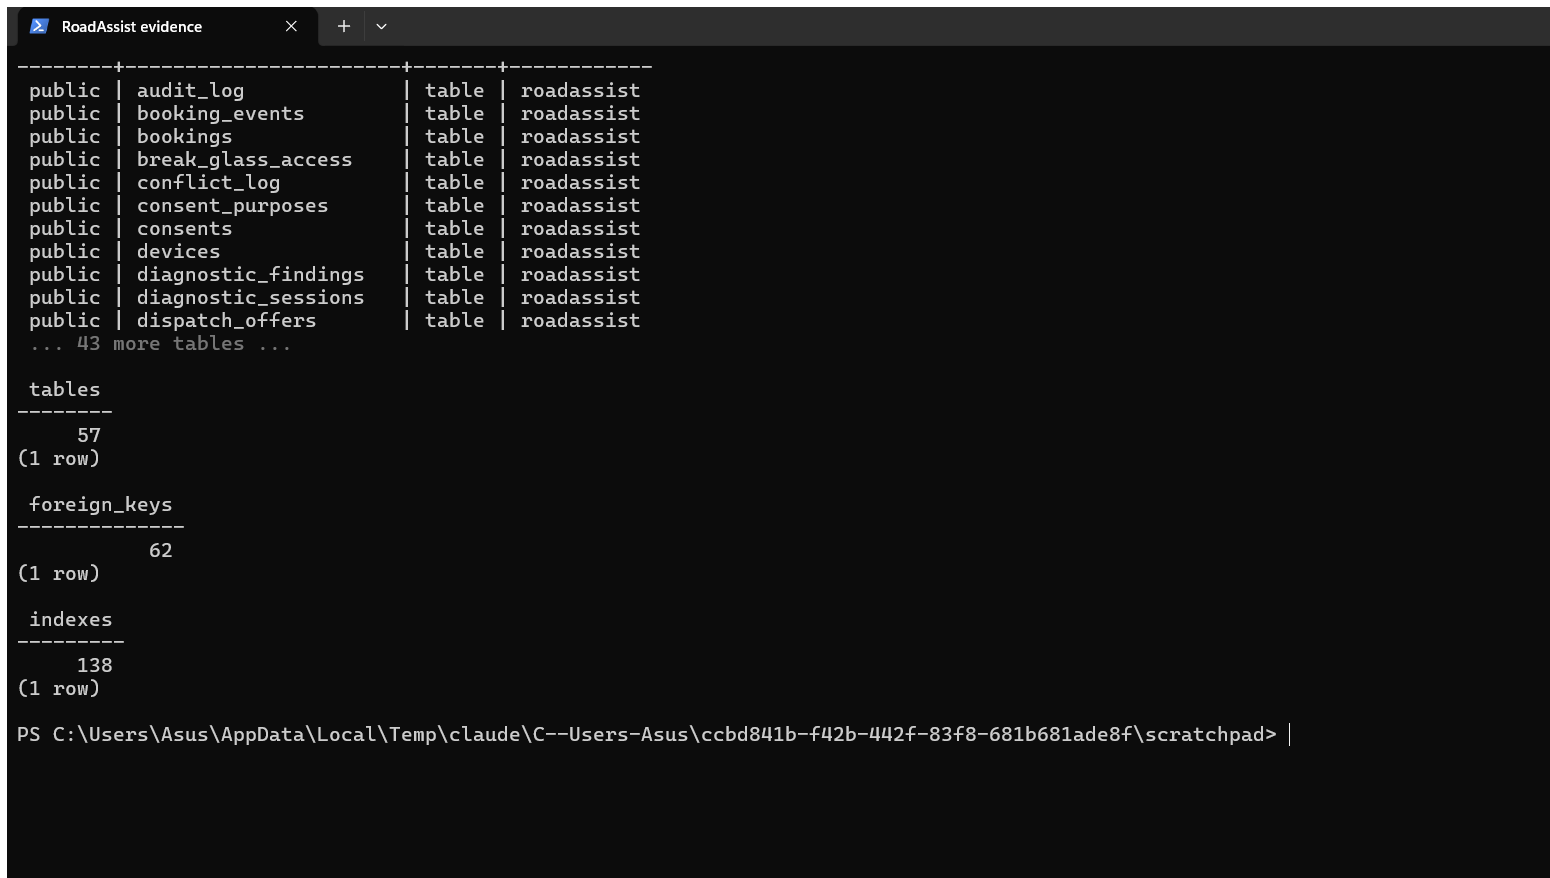
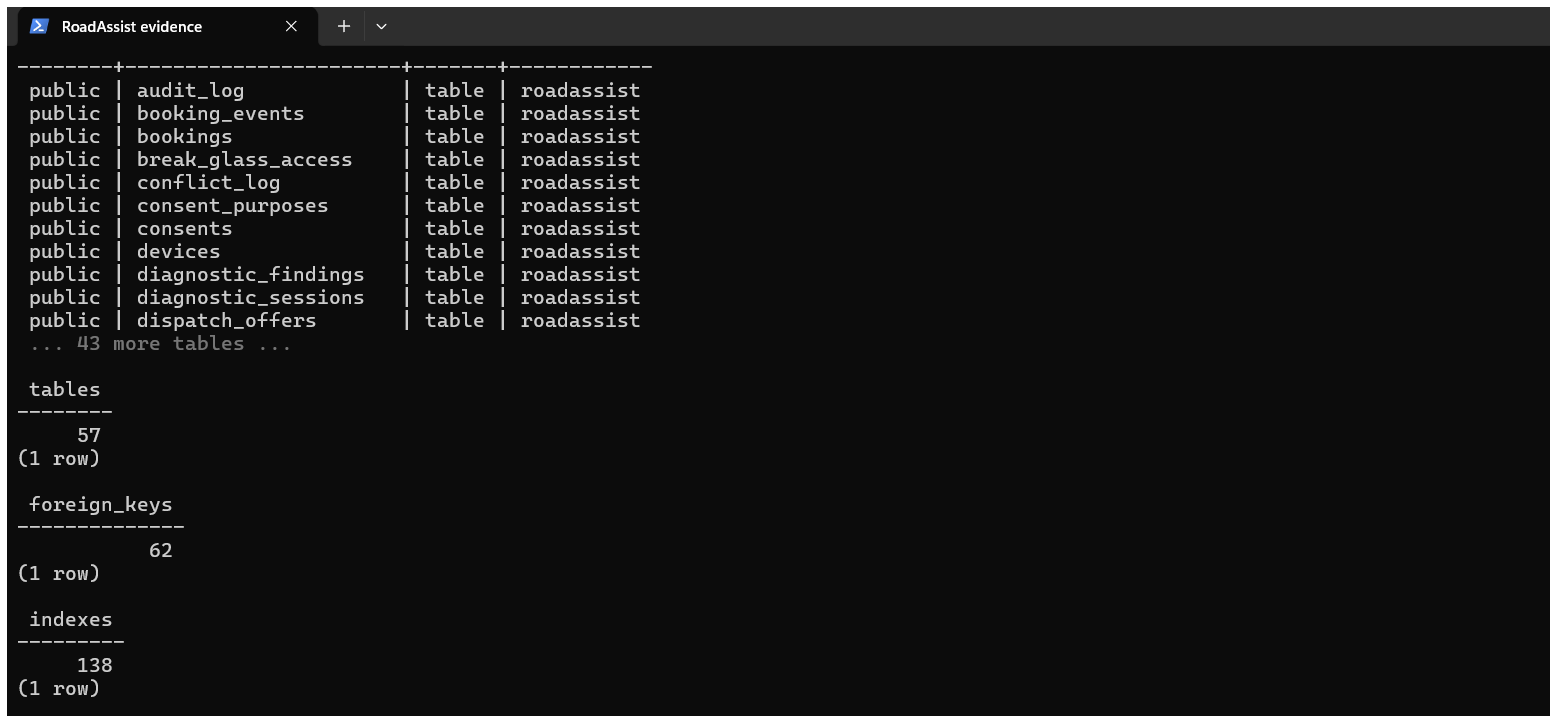
HD image tier, a signed-in mechanic capture, and no local paths in captures
build-thumbs.py gains hd/: 2560 px copies of the captures wider than the
1400 px stage tier, offered to retina screens through srcset and never
downloaded by a phone. The Pages build copies it and now checks every srcset
candidate exists, which the src/poster grep could not see.

24-mechanic-console.png is a new capture of the mechanic console signed in as
a seeded mechanic on the running platform: availability toggle, rating, jobs,
the active job and new requests - what the showcase card describes. The only
mechanic capture before was the sign-in screen, mostly empty black.

20-database-schema.png and 21-test-security.png lose their last line, a shell
prompt that printed local folder paths from the capturing machine. Nothing
above it changes.

diff --git a/pages/build-thumbs.py b/pages/build-thumbs.py
@@ -9,8 +9,10 @@ never wider than about 700 px. Sending the originals to those places costs
 roughly 5.9 MB of PNG, which on a phone over mobile data is the difference
 between a page that opens and a page somebody closes.
 
-Two tiers, both WebP, both a plain LANCZOS downscale of the original:
+Three tiers, all WebP, all a plain LANCZOS downscale of the original:
 
+  hd/      up to 2560 px - only for captures wider than 1400, offered to 2x
+           screens through srcset and never downloaded by a phone
   stage/   1400 px wide - the device frames, the hero, the video posters,
            and the desktop-capture gallery tiles, which render up to 536 px
            wide and so need about 1100 px to stay sharp on a retina screen
@@ -53,10 +55,17 @@ ROOT = Path(__file__).resolve().parent.parent
 SRC = ROOT / "app" / "docs" / "screenshots"
 
 # (directory, max width for a landscape capture, max width for a portrait
-#  capture, the size above which lossless is abandoned for quality 90)
+#  capture, the size above which lossless is abandoned for quality 90, and the
+#  source width a capture must exceed to get a copy in this tier at all)
+#
+# hd/ exists for retina laptops and big monitors: a 1400 px copy in a 1100 px
+# box on a 2x screen is visibly soft. Only captures wider than the stage tier
+# get one - there is nothing sharper to give a 780 px phone capture - and the
+# page offers it through srcset, so a phone never downloads it.
 TIERS = [
-    ("stage", 1400, 900, 120 * 1024),
-    ("thumbs", 880, 520, 60 * 1024),
+    ("hd", 2560, 0, 220 * 1024, 1400),
+    ("stage", 1400, 900, 120 * 1024, 0),
+    ("thumbs", 880, 520, 60 * 1024, 0),
 ]
 
 
@@ -78,20 +87,23 @@ def build(force: bool = False, src: Path = SRC) -> int:
         return 1
 
     total_src = total_out = 0
-    for name, wide_w, tall_w, cap in TIERS:
+    for name, wide_w, tall_w, cap, min_src in TIERS:
         out_dir = SRC / name
         out_dir.mkdir(exist_ok=True)
         built = kept = tier_bytes = 0
         print(f"\n{name}/")
 
         for path in sorted(src.glob("*.png")):
-            dest = out_dir / (path.stem + ".webp")
+            stem = path.stem
+            dest = out_dir / (stem + ".webp")
             if not force and dest.exists() and dest.stat().st_mtime >= path.stat().st_mtime:
                 kept += 1
                 tier_bytes += dest.stat().st_size
                 continue
 
             with Image.open(path) as im:
+                if im.width <= min_src or (im.height > im.width and not tall_w):
+                    continue
                 # Decide by the capture's own shape rather than by a list of
                 # names: a landscape capture squeezed into the portrait width
                 # loses the text the tile exists to show.
@@ -109,7 +121,7 @@ def build(force: bool = False, src: Path = SRC) -> int:
             dest.write_bytes(data)
             built += 1
             tier_bytes += len(data)
-            print(f"  {path.name:26s} {path.stat().st_size/1024:7.0f} KB -> {len(data)/1024:6.0f} KB")
+            print(f"  {stem + '.png':26s} {path.stat().st_size/1024:7.0f} KB -> {len(data)/1024:6.0f} KB")
 
         print(f"  {built} built, {kept} current, {tier_bytes/1024/1024:.2f} MB total")
         total_out += tier_bytes
